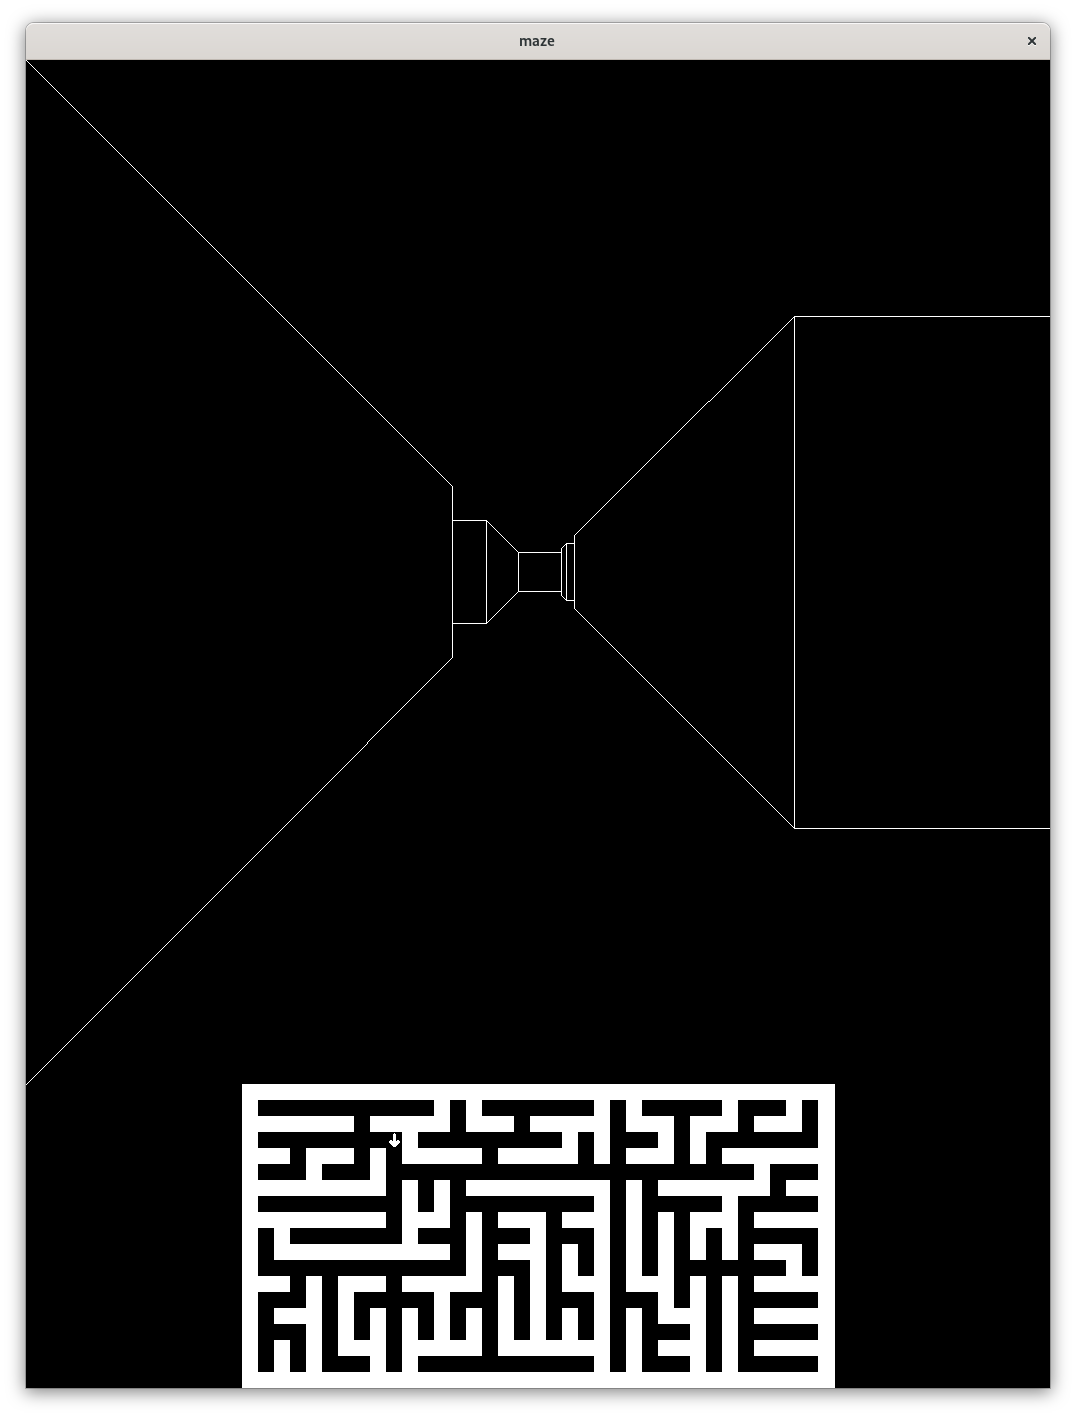
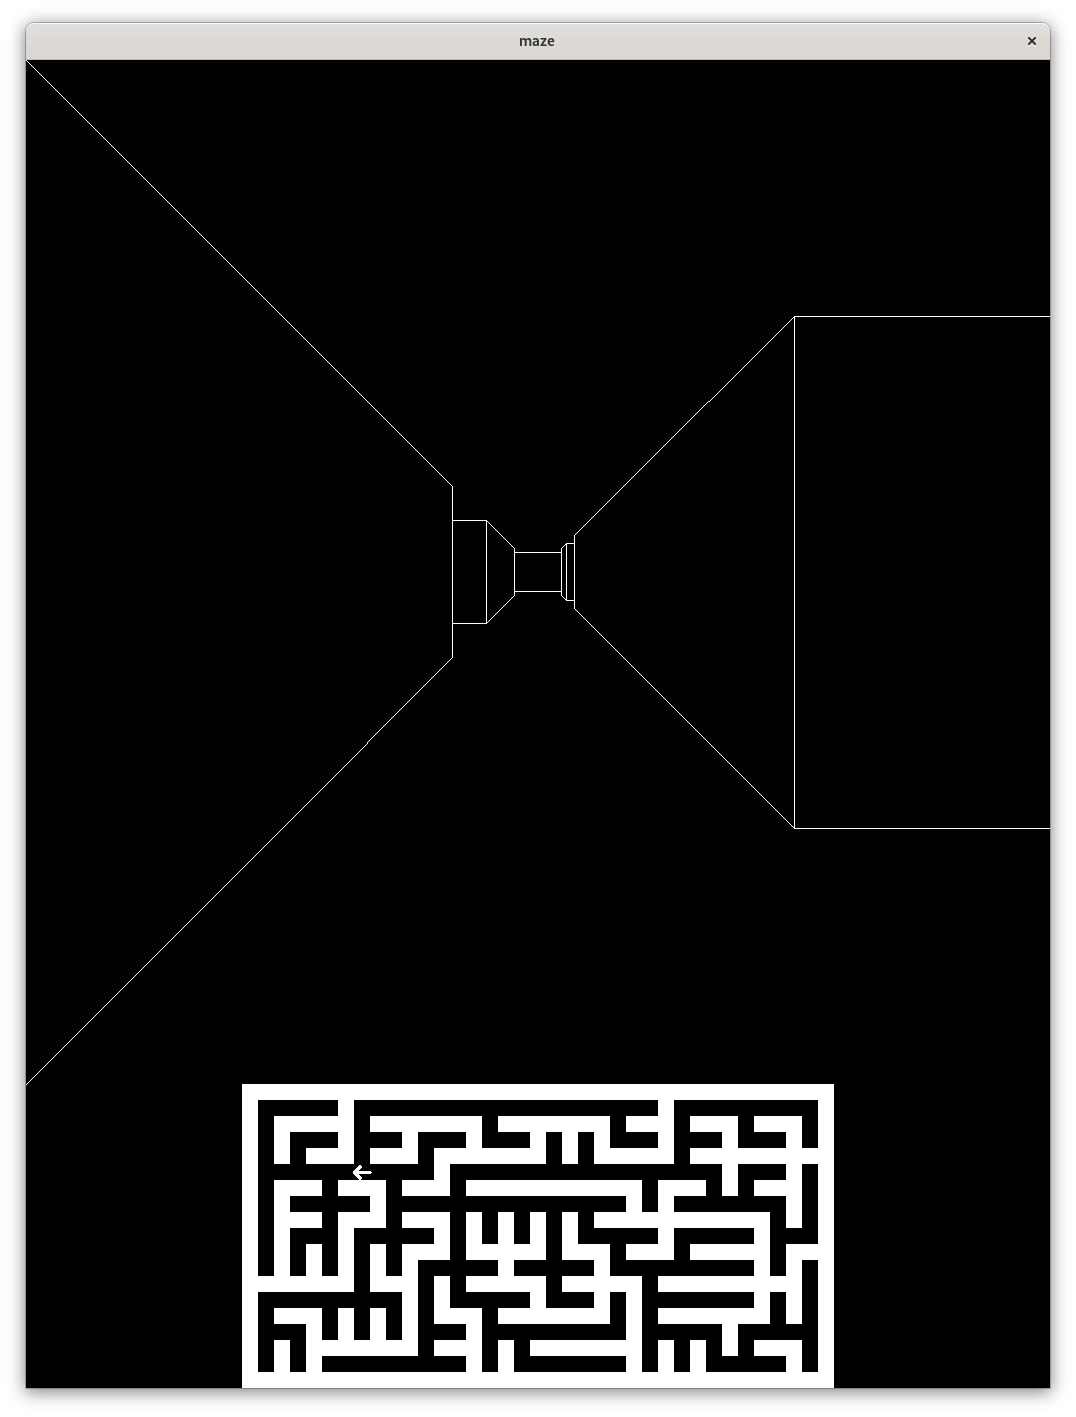
3D表示部に比例した大きさで表示するなど2D表示を微調整した

Changed region(s): [[0.2454, 0.7763, 0.7667, 0.9626]]

diff --git a/maze.py b/maze.py
@@ -57,7 +57,7 @@ def main(w, h, vsize, make_maze):
 
     maze = make_maze(w, h)
     w, h = w*2+1, h*2+1
-    s = 16 # 2D表示で各セルを表す正方形の一辺の長さ(ドット数)
+    s = vsize//64 # 2D表示で各セルを表す正方形の一辺の長さ(ドット数)
     vw = max(vsize, w*s)
 
     x, y, dx, dy = 1, 1, 1, 0
@@ -95,11 +95,10 @@ def main(w, h, vsize, make_maze):
             x0, y0 = (vw-w*s)//2, vsize # 2D表示部左上の座標
             for i in range(w):
                 for j in range(h):
-                    cv2.rectangle(img, (x0+i*s, y0+j*s), (x0+i*s+s, y0+j*s+s),
-                                  255*maze[j][i], cv2.FILLED)
-            cv2.arrowedLine(img,
-                            (x0+x*s+s//2-(s//2-2)*dx, y0+y*s+s//2-(s//2-2)*dy),
-                            (x0+x*s+s//2+(s//2-3)*dx, y0+y*s+s//2+(s//2-3)*dy),
+                    cv2.rectangle(img, (x0+i*s, y0+j*s), (x0+i*s+s-1, y0+j*s+s-1),
+                                  maze[j][i] * 255, cv2.FILLED)
+            cv2.arrowedLine(img, (x0+x*s+(1-dx)*s//2, y0+y*s+(1-dy)*s//2),
+                            (x0+x*s+(1+dx)*s//2, y0+y*s+(1+dy)*s//2),
                             255, tipLength=0.5, thickness = 2)
             cv2.imshow(title, img)
         k = chr(max(0, cv2.waitKey(50)))

diff --git a/README.md b/README.md
@@ -21,7 +21,7 @@ python3 maze.py
 ```
 python maze.py
 ```
-とすると迷路がランダムに生成され、上部に大きく3D表示、下部に小さく2D表示されます。2D表示の中の矢印はプレイヤーの視点の位置と向きを表わしており、開始時には迷路の一番左上のマスに右向きで置かれています。
+とすると迷路がランダムに生成され、上部に大きく3D表示、下部に小さく2D表示されます。2D表示の中の矢印はプレイヤーの位置と向きを表わしており、開始時には迷路の一番左上のマスに右向きで置かれています。
 
 ![screenshot](screenshot.png)
 
@@ -48,3 +48,4 @@ options:
 ```
 - 生成アルゴリズムにおいて迷路は正方形グリッドの各セルが上下左右のセルとの間に壁を持ったり持たなかったりするパターンとしてモデル化されており、上記オプションで指定する迷路のサイズもこの正方形グリッドの縦横のセル数のことですが、実際表示されるのはそれを壁にも空間セルと同じ厚みを持たせ各セル壁か空間かの二値グリッドとして表わしたものであり、迷路のサイズを横w、縦hと指定した場合、横2w+1、縦2h+1のグリッドになります。
 - 生成アルゴリズムは`prim`を指定した場合[randomized Prim's](https://en.wikipedia.org/wiki/Maze_generation_algorithm#Iterative_randomized_Prim's_algorithm_(without_stack,_without_sets))、`dfs`を指定した場合[recursive backtracker](https://en.wikipedia.org/wiki/Maze_generation_algorithm#Randomized_depth-first_search)になります。
+- 2D表示部では各セルは一辺VSIZE÷16ドットの正方形で表示されます。
